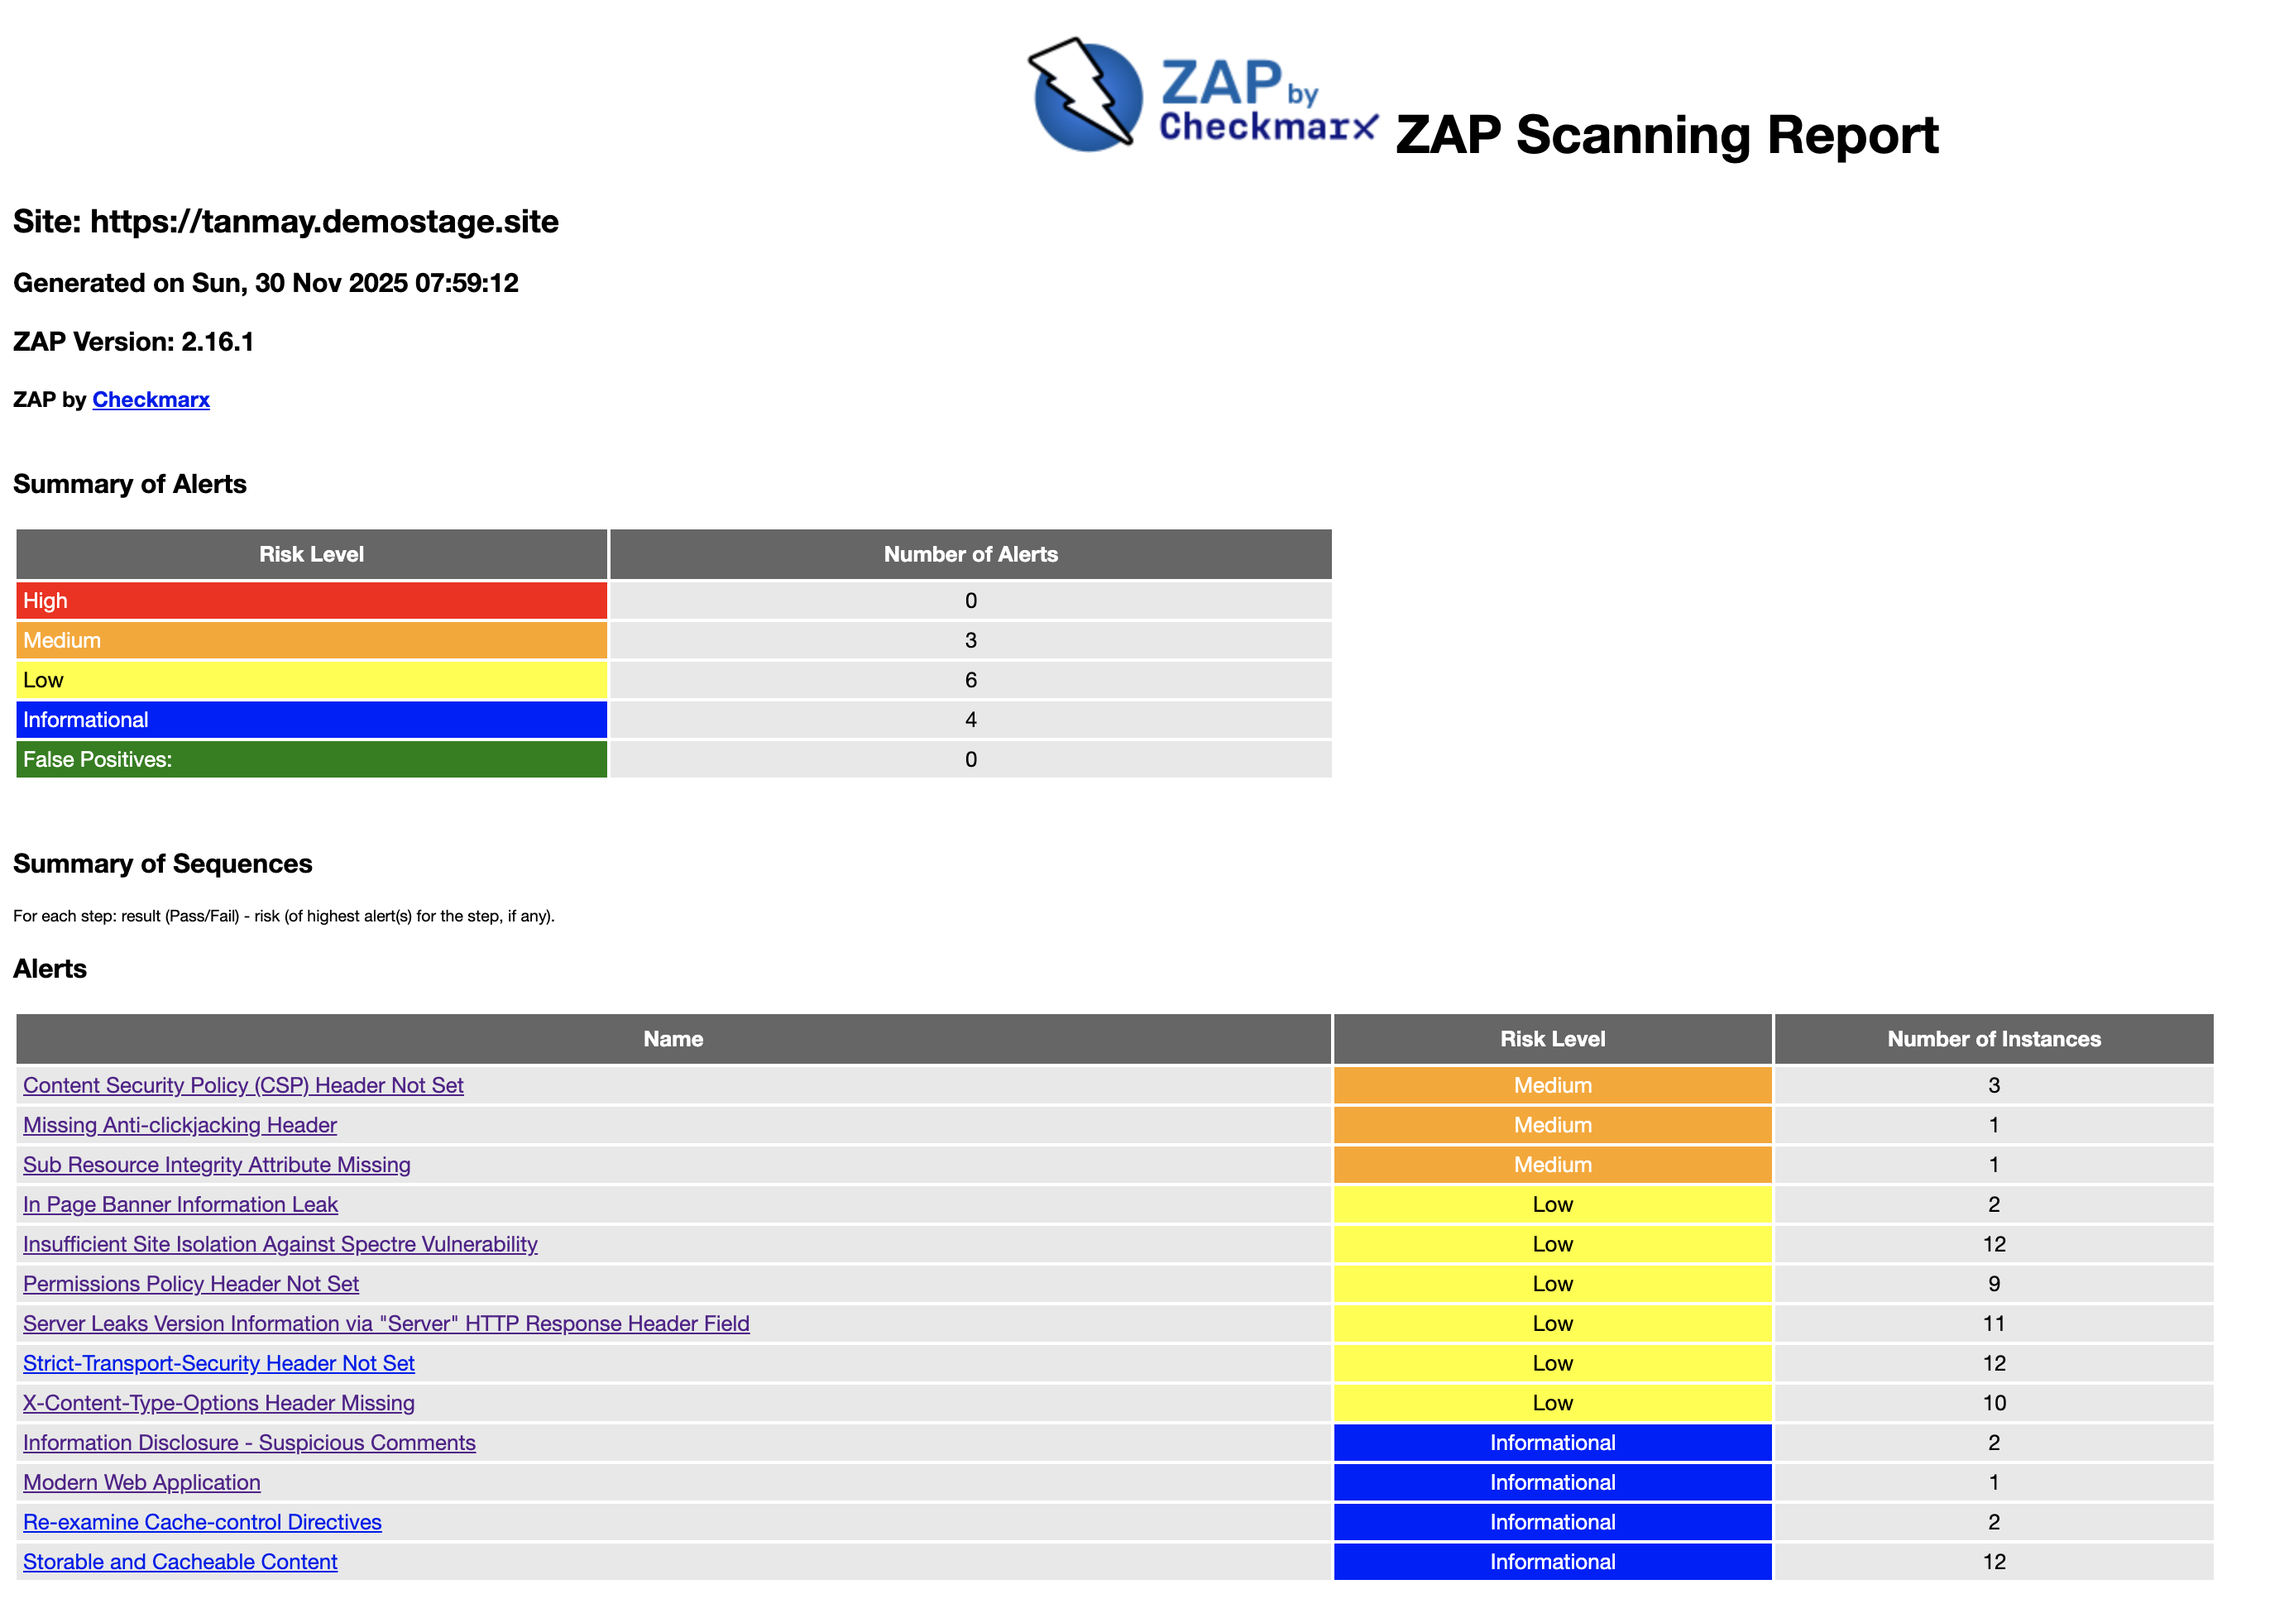
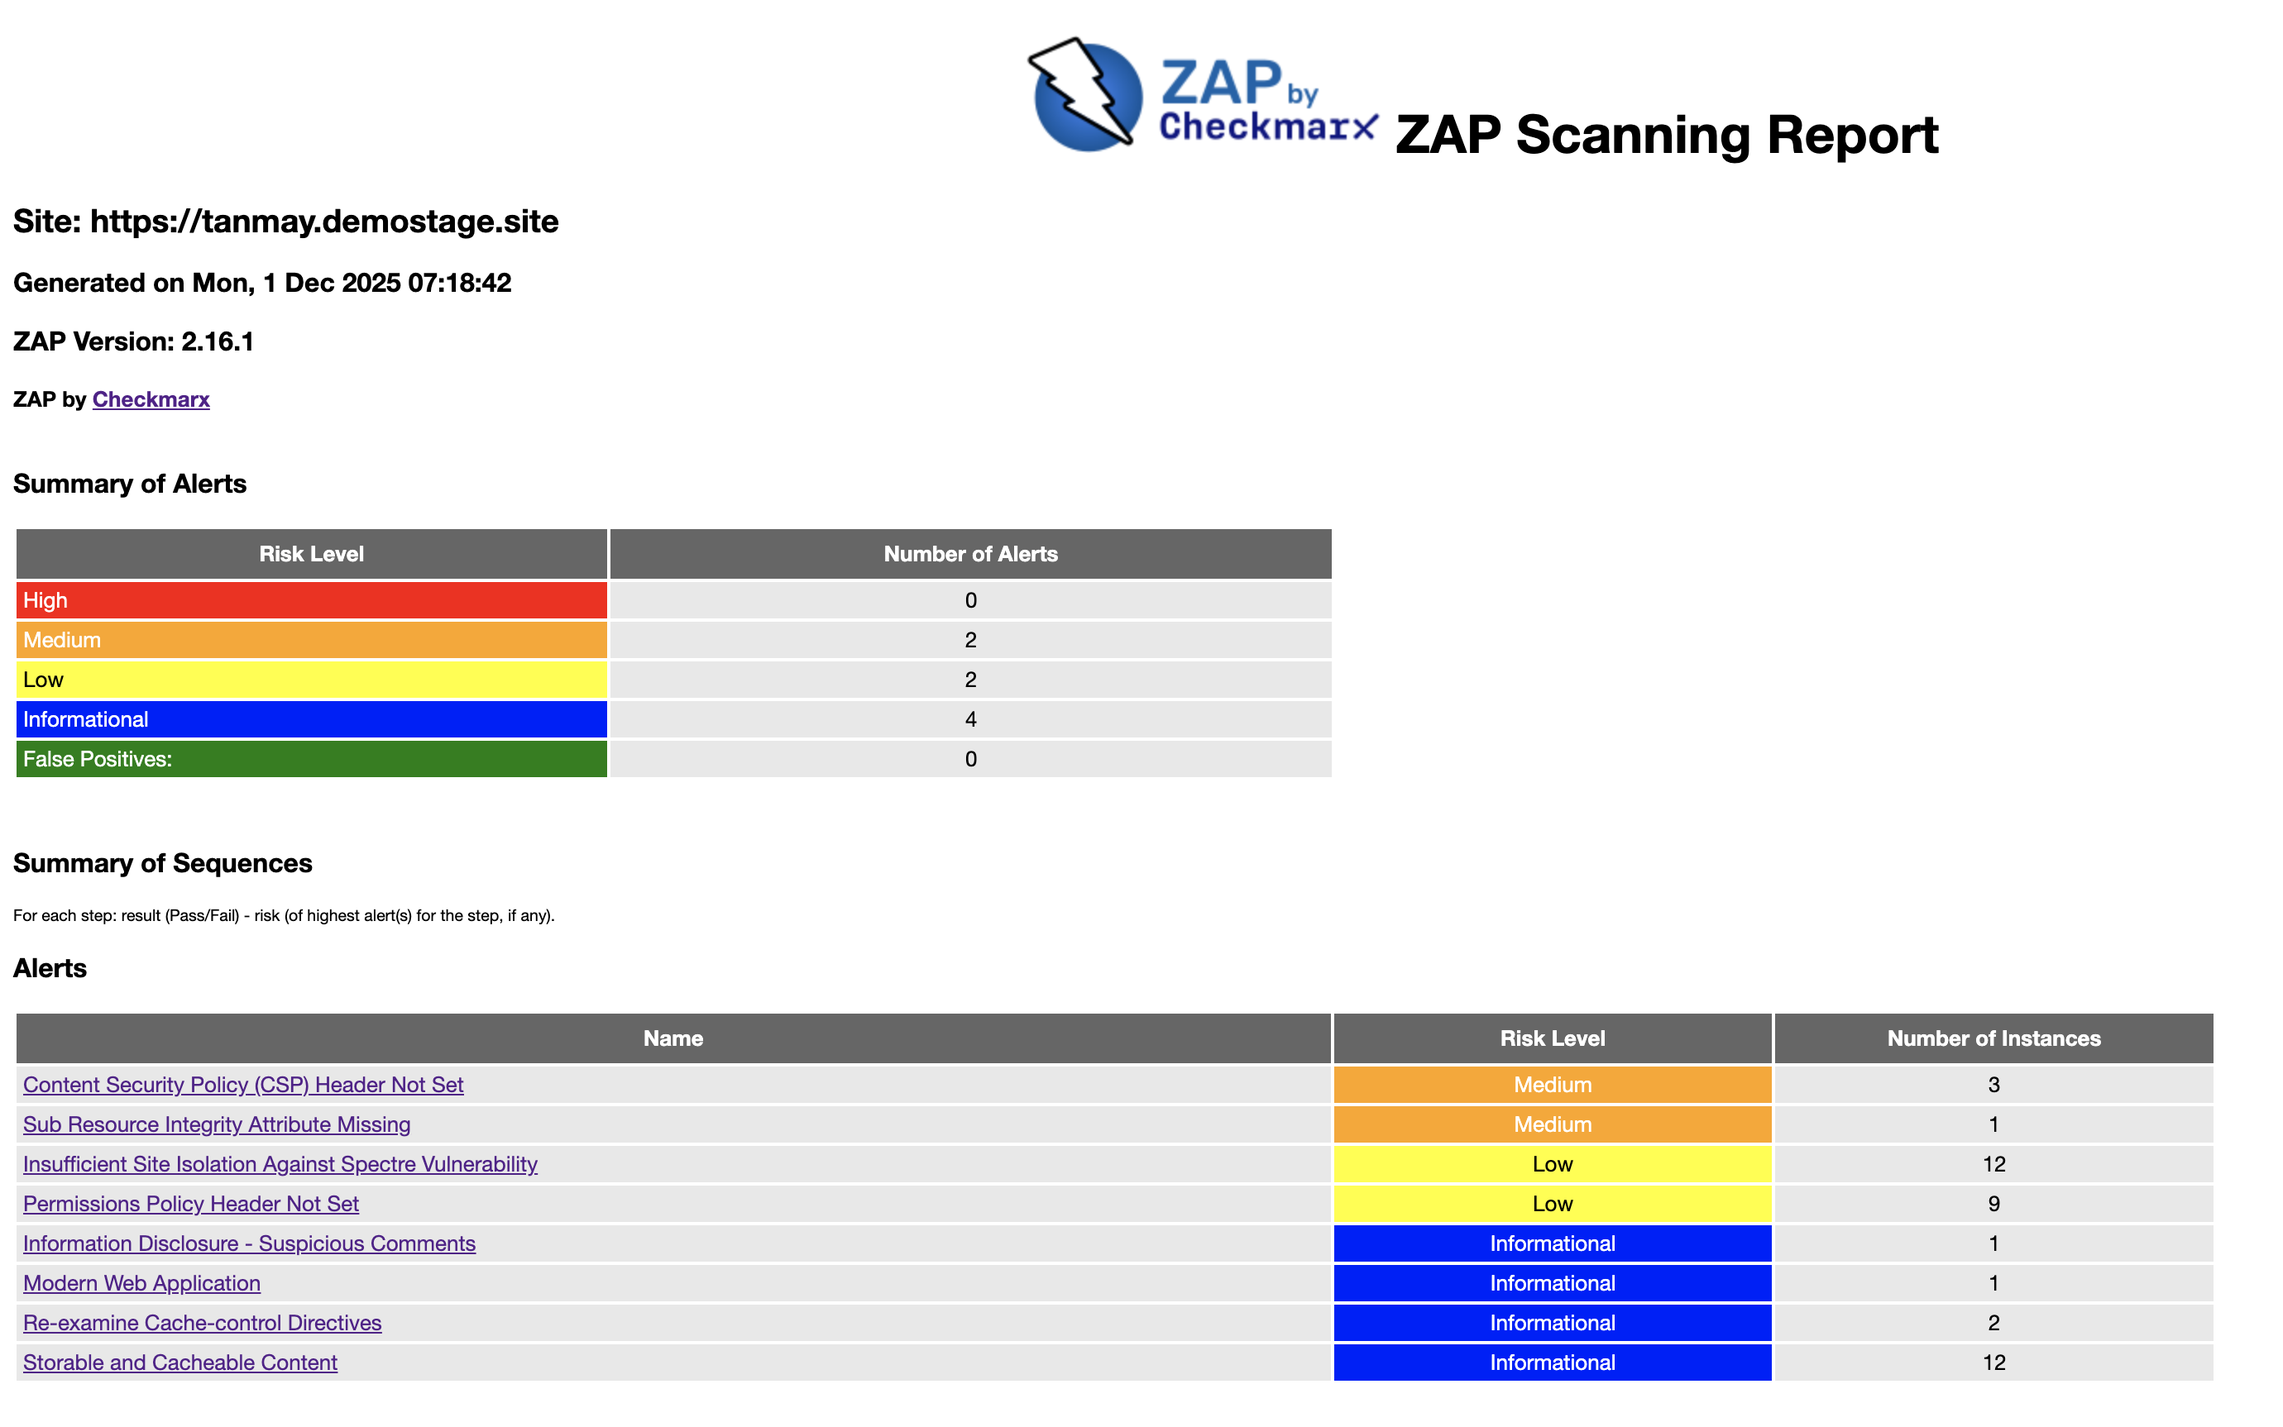
Deployed 57b1426 with MkDocs version: 1.6.1

Changed region(s): [[0.0, 0.1228, 0.9913, 0.9826], [0.4337, 0.0, 0.8673, 0.1228]]

diff --git a/sast/index.html b/sast/index.html
@@ -447,18 +447,9 @@
 </li>
         
           <li class="md-nav__item">
-  <a href="#2-missing-anti-clickjacking-header" class="md-nav__link">
+  <a href="#2-subresource-integrity-sri-attribute-missing" class="md-nav__link">
     <span class="md-ellipsis">
-      2. Missing Anti-clickjacking Header
-    </span>
-  </a>
-  
-</li>
-        
-          <li class="md-nav__item">
-  <a href="#3-subresource-integrity-sri-attribute-missing" class="md-nav__link">
-    <span class="md-ellipsis">
-      3. Subresource Integrity (SRI) Attribute Missing
+      2. Subresource Integrity (SRI) Attribute Missing
     </span>
   </a>
   
@@ -602,18 +593,9 @@
 </li>
         
           <li class="md-nav__item">
-  <a href="#2-missing-anti-clickjacking-header" class="md-nav__link">
+  <a href="#2-subresource-integrity-sri-attribute-missing" class="md-nav__link">
     <span class="md-ellipsis">
-      2. Missing Anti-clickjacking Header
-    </span>
-  </a>
-  
-</li>
-        
-          <li class="md-nav__item">
-  <a href="#3-subresource-integrity-sri-attribute-missing" class="md-nav__link">
-    <span class="md-ellipsis">
-      3. Subresource Integrity (SRI) Attribute Missing
+      2. Subresource Integrity (SRI) Attribute Missing
     </span>
   </a>
   
@@ -765,11 +747,11 @@
 </tr>
 <tr>
 <td>Medium</td>
-<td>3</td>
+<td>2</td>
 </tr>
 <tr>
 <td>Low</td>
-<td>6</td>
+<td>2</td>
 </tr>
 <tr>
 <td>Informational</td>
@@ -777,7 +759,7 @@
 </tr>
 </tbody>
 </table>
-<p><strong>Total Alerts:</strong> 15</p>
+<p><strong>Total Alerts:</strong> 8</p>
 <p><img alt="Dast Report" src="../assets/images/dast-report.png" style="display:block; margin-left:auto; margin-right:auto;" width="100%" /></p>
 <h3 id="priority-issues"><strong>Priority Issues</strong></h3>
 <h4 id="1-content-security-policy-csp-header-not-set">1. Content Security Policy (CSP) Header Not Set</h4>
@@ -786,13 +768,7 @@
 <li><strong>Affected URLs:</strong> <code>/</code>, <code>/robots.txt</code>, <code>/sitemap.xml</code>  </li>
 <li><strong>Description:</strong> CSP is a security feature that helps prevent attacks like Cross-Site Scripting (XSS) and data injection by specifying trusted sources of content for a website. When the CSP header is not set, browsers have no instructions on which content is safe, leaving the site vulnerable. Adding a CSP header mitigates these risks by restricting the sources of scripts, styles, images, and other resources.</li>
 </ul>
-<h4 id="2-missing-anti-clickjacking-header">2. Missing Anti-clickjacking Header</h4>
-<ul>
-<li><strong>Risk:</strong> Medium  </li>
-<li><strong>Affected URL:</strong> <code>/</code>  </li>
-<li><strong>Description:</strong> The page is vulnerable to clickjacking attacks, where an attacker could trick users into interacting with hidden elements. Adding the X-Frame-Options or Content-Security-Policy frame-ancestors header can prevent this.</li>
-</ul>
-<h4 id="3-subresource-integrity-sri-attribute-missing">3. Subresource Integrity (SRI) Attribute Missing</h4>
+<h4 id="2-subresource-integrity-sri-attribute-missing">2. Subresource Integrity (SRI) Attribute Missing</h4>
 <ul>
 <li><strong>Risk:</strong> Medium  </li>
 <li><strong>Affected URL:</strong> <code>/</code> (external CSS/JS assets)  </li>
